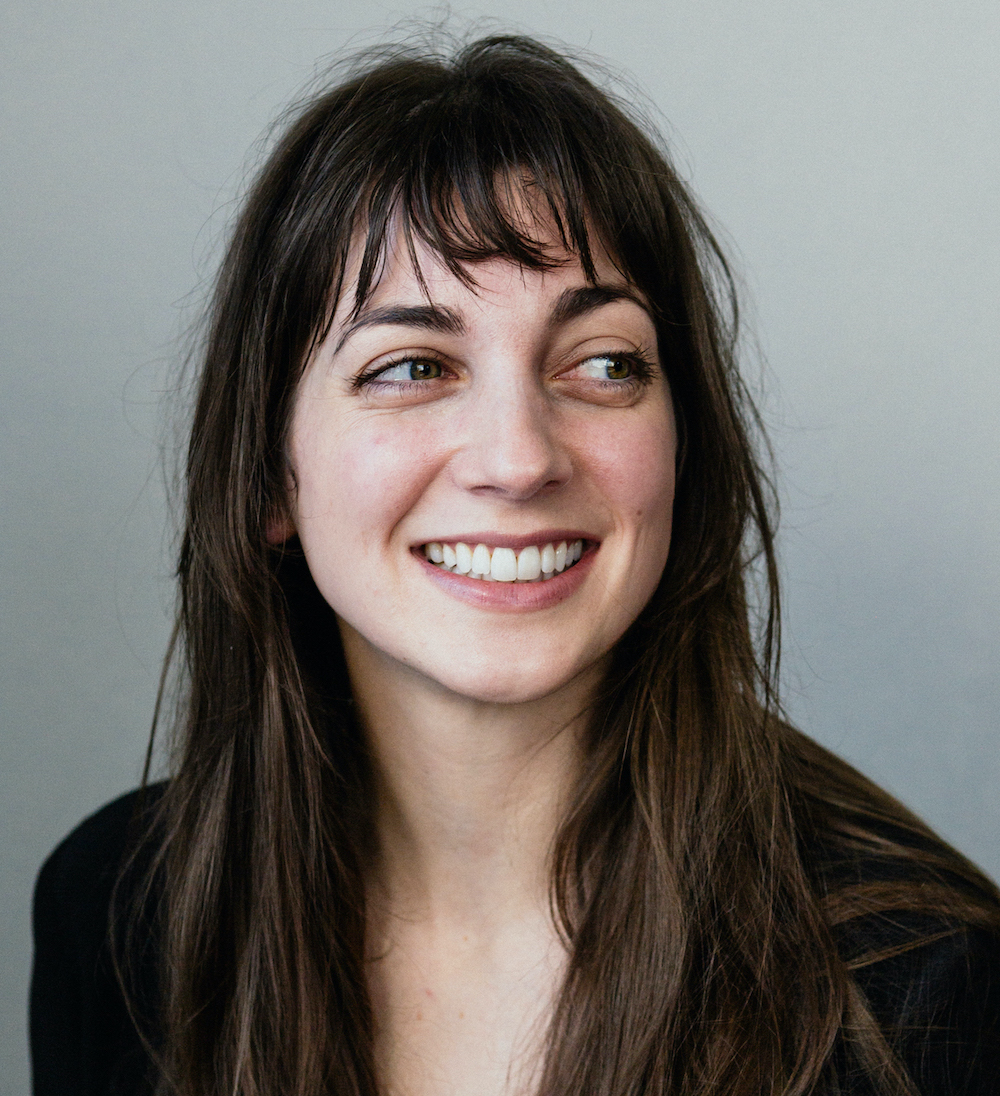
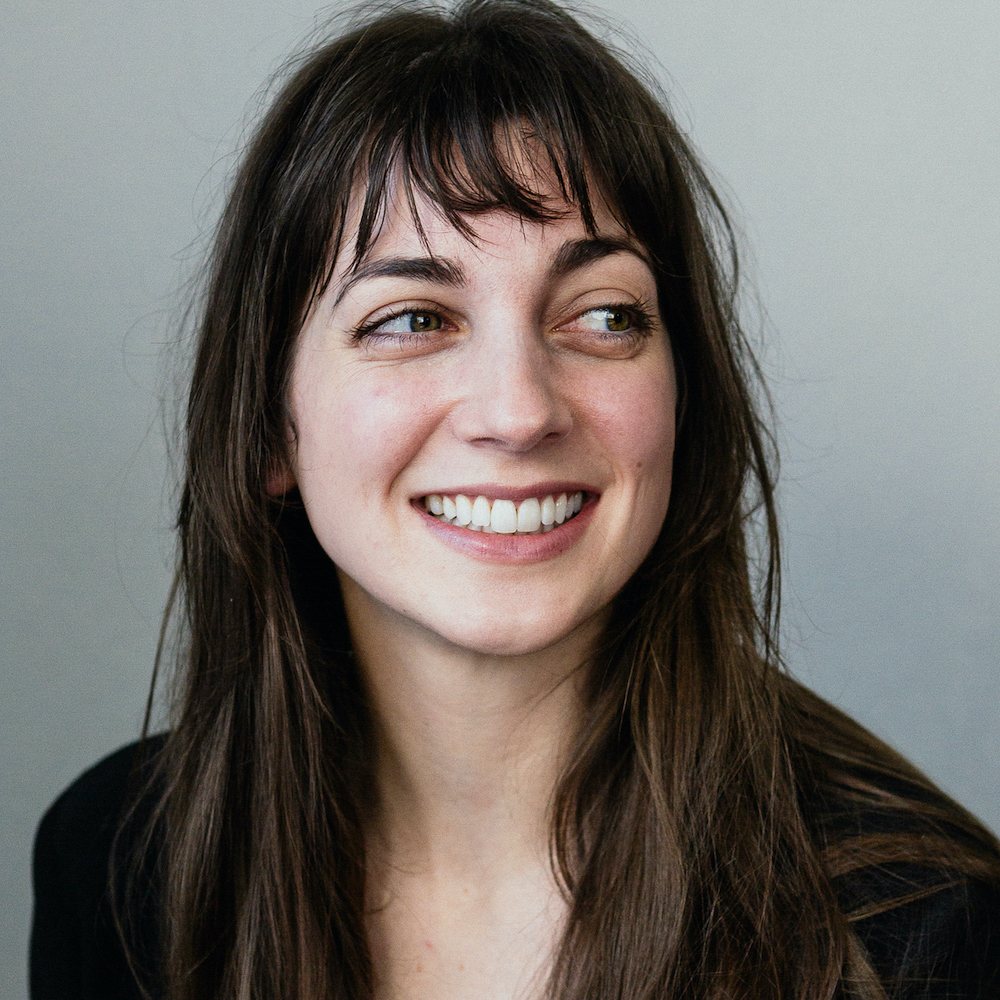
apply navigation to each page

diff --git a/index.html b/index.html
@@ -11,25 +11,29 @@
     <br>
     <br>
     <br>
-   <img src="imgs/avatar.jpg" width= 100% alt="A photo of Claire">
+
+   <img src="imgs/avatar.jpg" width= 100% class="avatar-shape" alt="A photo of Claire">
 
     <br>
     <br>
     <h1>Claire Thorington</h1>
     
     <br>
-      <div class="nav-links">
-        <a href="https://github.com/Thorington">GitHub Portfolio</a>
+      
+      <a href="file:///Users/claire/Desktop/portfolio-landing-page/index.html">Home</a>
       <br>
-      <br>
-        <a href="#aboutme.html">About Me</a>
-      <br>
-      <br>
-        <a href="#workhistory.html">Work History</a>
-      <br>
-      <br>
-        <a href="#contact.html">Contact</a>
-      </div>
+    <br>
+      <a href="https://github.com/Thorington">GitHub Portfolio</a>
+    <br>
+    <br>
+      <a href="file:///Users/claire/Desktop/portfolio-landing-page/aboutme.html">About Me</a>
+    <br>
+    <br>
+      <a href="file:///Users/claire/Desktop/portfolio-landing-page/workhistory.html">Work History</a>
+    <br>
+    <br>
+      <a href="file:///Users/claire/Desktop/portfolio-landing-page/contact.html">Contact</a>
+   
     <br>
     <br>
   </nav>

diff --git a/contact.html b/contact.html
@@ -6,6 +6,34 @@
 </head>
 <body>
 
+  <nav class="navbar">
+    <br>
+    <br>
+    <br>
+    <br>
+   <img src="imgs/avatar.jpg" width= 100% class="avatar-shape" alt="A photo of Claire">
+    <br>
+    <br>
+    <h1>Claire Thorington</h1>
+    <br> 
+      <a href="file:///Users/claire/Desktop/portfolio-landing-page/index.html">Home</a>
+      <br>
+    <br>
+      <a href="https://github.com/Thorington">GitHub Portfolio</a>
+    <br>
+    <br>
+      <a href="file:///Users/claire/Desktop/portfolio-landing-page/aboutme.html">About Me</a>
+    <br>
+    <br>
+      <a href="file:///Users/claire/Desktop/portfolio-landing-page/workhistory.html">Work History</a>
+    <br>
+    <br>
+      <a href="file:///Users/claire/Desktop/portfolio-landing-page/contact.html">Contact</a>
+   
+    <br>
+    <br>
+  </nav>
+
 
 </body>
 </html>

diff --git a/workhistory.html b/workhistory.html
@@ -6,6 +6,34 @@
 </head>
 <body>
 
+  <nav class="navbar">
+    <br>
+    <br>
+    <br>
+    <br>
+   <img src="imgs/avatar.jpg" width= 100% class="avatar-shape" alt="A photo of Claire">
+    <br>
+    <br>
+    <h1>Claire Thorington</h1>
+    <br> 
+      <a href="file:///Users/claire/Desktop/portfolio-landing-page/index.html">Home</a>
+      <br>
+    <br>
+      <a href="https://github.com/Thorington">GitHub Portfolio</a>
+    <br>
+    <br>
+      <a href="file:///Users/claire/Desktop/portfolio-landing-page/aboutme.html">About Me</a>
+    <br>
+    <br>
+      <a href="file:///Users/claire/Desktop/portfolio-landing-page/workhistory.html">Work History</a>
+    <br>
+    <br>
+      <a href="file:///Users/claire/Desktop/portfolio-landing-page/contact.html">Contact</a>
+   
+    <br>
+    <br>
+  </nav>
+
 
 </body>
 </html>

diff --git a/aboutme.html b/aboutme.html
@@ -6,6 +6,33 @@
 </head>
 <body>
 
+  <nav class="navbar">
+    <br>
+    <br>
+    <br>
+    <br>
+   <img src="imgs/avatar.jpg" width= 100% class="avatar-shape" alt="A photo of Claire">
+    <br>
+    <br>
+    <h1>Claire Thorington</h1>
+    <br> 
+      <a href="file:///Users/claire/Desktop/portfolio-landing-page/index.html">Home</a>
+      <br>
+    <br>
+      <a href="https://github.com/Thorington">GitHub Portfolio</a>
+    <br>
+    <br>
+      <a href="file:///Users/claire/Desktop/portfolio-landing-page/aboutme.html">About Me</a>
+    <br>
+    <br>
+      <a href="file:///Users/claire/Desktop/portfolio-landing-page/workhistory.html">Work History</a>
+    <br>
+    <br>
+      <a href="file:///Users/claire/Desktop/portfolio-landing-page/contact.html">Contact</a>
+   
+    <br>
+    <br>
+  </nav>
 
 
 </body>

diff --git a/css/styles.css b/css/styles.css
@@ -17,7 +17,7 @@ nav a:link, nav a:visited, nav a:hover, nav a:active {
 
 }
 
-nav {
+.navbar {
   width: 200px;
   height: 100%;
   margin: 2%;
@@ -31,7 +31,6 @@ nav {
   z-index: 1;
   top: 0; 
   left: 0;
-  float: left;
 }
 
 .portfolio {
@@ -48,9 +47,12 @@ ol {
   list-style-position: inside;
 }
 
-
 ul {
   list-style-type: circle;
   list-style-position: inside;
 }
 
+.avatar-shape {
+  border-radius: 50%;
+  object-fit: cover;
+}
